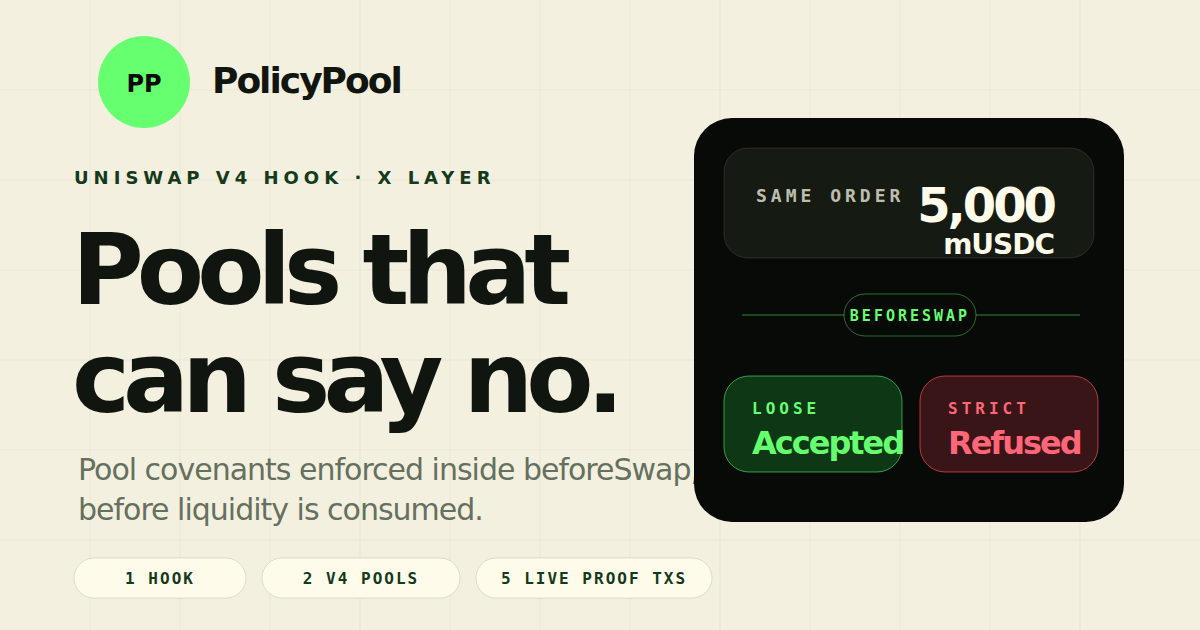
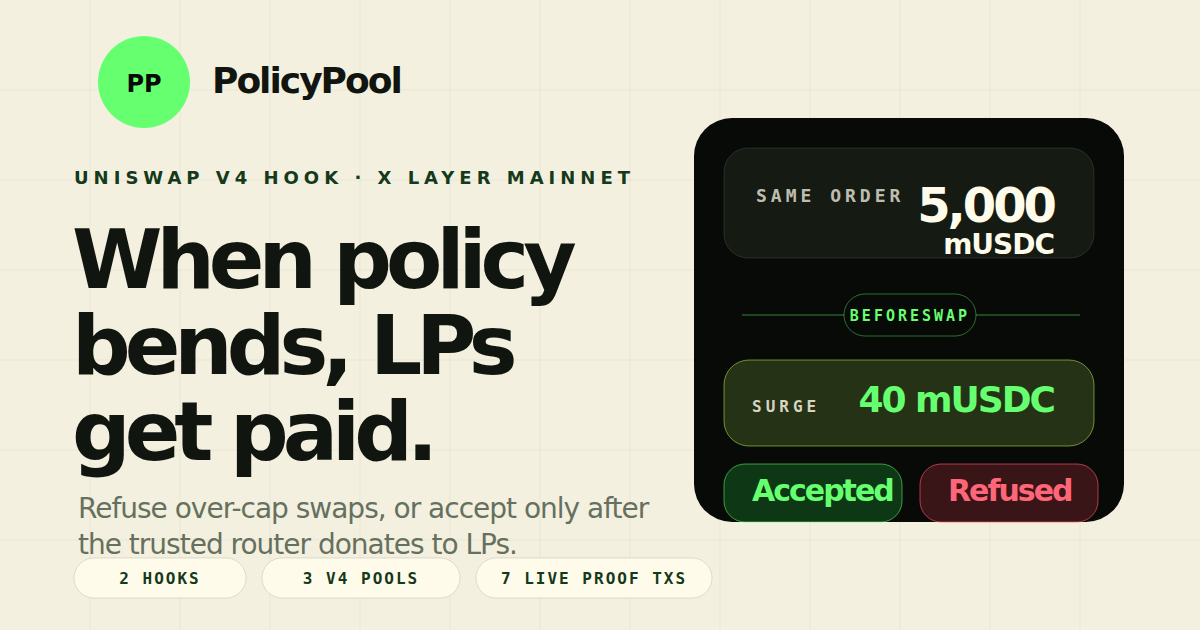
Tighten PolicyPool landing hero

diff --git a/web/styles.css b/web/styles.css
@@ -79,7 +79,7 @@ pre,
   justify-content: space-between;
   gap: 18px;
   margin: 16px auto 0;
-  padding: 10px;
+  padding: 8px;
   border: 1px solid var(--line);
   border-radius: 999px;
   background: rgba(255, 251, 237, 0.82);
@@ -102,9 +102,9 @@ pre,
 }
 
 .brand-mark {
-  width: 48px;
-  height: 48px;
-  border-radius: 17px;
+  width: 44px;
+  height: 44px;
+  border-radius: 15px;
   display: block;
   box-shadow: inset 0 0 0 1px rgba(7, 10, 7, 0.08);
 }
@@ -134,10 +134,10 @@ pre,
   align-items: center;
   justify-content: space-between;
   gap: 12px;
-  min-height: 58px;
+  min-height: 48px;
   border: 1px solid rgba(16, 22, 15, 0.12);
   border-radius: 999px;
-  padding: 12px 16px;
+  padding: 10px 14px;
   background: rgba(255, 251, 237, 0.72);
   box-shadow: 0 12px 40px rgba(16, 22, 15, 0.055);
 }
@@ -170,7 +170,7 @@ pre,
 }
 
 main {
-  padding: 22px 0 84px;
+  padding: 8px 0 84px;
 }
 
 .hero {
@@ -178,8 +178,8 @@ main {
   display: grid;
   grid-template-columns: minmax(0, 0.85fr) minmax(520px, 1fr);
   gap: clamp(30px, 5vw, 86px);
-  align-items: center;
-  padding: clamp(54px, 6vh, 74px) 0 clamp(60px, 8vh, 92px);
+  align-items: start;
+  padding: clamp(30px, 4vh, 42px) 0 clamp(46px, 6vh, 70px);
 }
 
 .eyebrow {
@@ -198,10 +198,10 @@ p {
 }
 
 h1 {
-  margin: 14px 0 20px;
-  max-width: 900px;
-  font-size: clamp(64px, 6.7vw, 118px);
-  line-height: 0.88;
+  margin: 12px 0 18px;
+  max-width: 820px;
+  font-size: clamp(60px, 5.8vw, 98px);
+  line-height: 0.9;
   letter-spacing: -0.085em;
 }
 
@@ -214,10 +214,10 @@ h2 {
 }
 
 .lede {
-  max-width: 720px;
+  max-width: 680px;
   margin: 0;
   color: var(--muted);
-  font-size: clamp(21px, 2vw, 29px);
+  font-size: clamp(20px, 1.7vw, 25px);
   line-height: 1.32;
   letter-spacing: -0.035em;
 }
@@ -258,7 +258,7 @@ h2 {
   display: flex;
   flex-wrap: wrap;
   gap: 10px;
-  margin-top: 30px;
+  margin-top: 24px;
 }
 
 .hero-metrics span {
@@ -276,8 +276,8 @@ h2 {
 .terminal-card {
   position: relative;
   display: grid;
-  gap: 18px;
-  padding: clamp(22px, 3vw, 34px);
+  gap: 14px;
+  padding: clamp(18px, 2.5vw, 28px);
   overflow: hidden;
   border: 1px solid rgba(244, 240, 223, 0.12);
   border-radius: 34px;
@@ -342,7 +342,7 @@ h2 {
   align-items: end;
   border: 1px solid rgba(255, 251, 237, 0.12);
   border-radius: 28px;
-  padding: 24px;
+  padding: 20px;
   background: rgba(255, 251, 237, 0.055);
 }
 
@@ -363,7 +363,7 @@ h2 {
 .order-ticket strong {
   grid-row: span 2;
   text-align: right;
-  font-size: clamp(48px, 5.5vw, 78px);
+  font-size: clamp(44px, 4.8vw, 68px);
   line-height: 0.88;
   letter-spacing: -0.075em;
 }
@@ -378,7 +378,7 @@ h2 {
   z-index: 1;
   display: grid;
   place-items: center;
-  min-height: 72px;
+  min-height: 54px;
 }
 
 .gate-line {
@@ -410,7 +410,7 @@ h2 {
   align-items: center;
   border: 1px solid rgba(219, 255, 91, 0.24);
   border-radius: 24px;
-  padding: 18px 20px;
+  padding: 15px 18px;
   color: #f6ffe9;
   background:
     radial-gradient(circle at 86% 18%, rgba(219, 255, 91, 0.2), transparent 10rem),
@@ -419,7 +419,7 @@ h2 {
 
 .surge-control strong {
   color: var(--green);
-  font-size: clamp(28px, 2.8vw, 42px);
+  font-size: clamp(26px, 2.4vw, 36px);
   line-height: 0.9;
   letter-spacing: -0.07em;
 }
@@ -464,16 +464,16 @@ h2 {
 .verdict {
   display: grid;
   gap: 10px;
-  min-height: 184px;
+  min-height: 142px;
   border: 1px solid rgba(255, 251, 237, 0.1);
   border-radius: 28px;
-  padding: 22px;
+  padding: 18px;
   background: rgba(255, 251, 237, 0.055);
 }
 
 .verdict strong {
   align-self: end;
-  font-size: clamp(42px, 4.2vw, 66px);
+  font-size: clamp(38px, 3.6vw, 56px);
   line-height: 0.88;
   letter-spacing: -0.08em;
 }
@@ -496,6 +496,7 @@ h2 {
 .reviewer-checks,
 .market-path,
 .deployment {
+  scroll-margin-top: 104px;
   margin-top: 26px;
   border: 1px solid var(--line);
   border-radius: 34px;

diff --git a/web/index.html b/web/index.html
@@ -7,7 +7,7 @@
       name="description"
       content="PolicyPool is a Uniswap v4 Hook on X Layer where pools enforce swap covenants, and trusted policy overrides pay LPs through donate + swap."
     />
-    <meta property="og:title" content="PolicyPool · Policy overrides pay LPs" />
+    <meta property="og:title" content="PolicyPool · When policy bends, LPs get paid" />
     <meta
       property="og:description"
       content="A Uniswap v4 Hook where pool covenants refuse oversized swaps, or accept them only after a trusted router donates to LPs."
@@ -19,7 +19,7 @@
     <meta property="og:image:width" content="1200" />
     <meta property="og:image:height" content="630" />
     <meta name="twitter:card" content="summary_large_image" />
-    <meta name="twitter:title" content="PolicyPool · Pools say no, or get paid" />
+    <meta name="twitter:title" content="PolicyPool · LP-paid policy overrides" />
     <meta
       name="twitter:description"
       content="A Uniswap v4 Hook on X Layer where policy overrides pay LPs via donate + swap in one transaction."
@@ -84,10 +84,10 @@
         <section class="hero" aria-label="PolicyPool overview">
           <div class="hero-copy">
             <p class="eyebrow">Uniswap v4 Hook · X Layer mainnet</p>
-            <h1>Pools that say no, or get paid to say yes.</h1>
+            <h1>When policy bends, LPs get paid.</h1>
             <p class="lede">
-              PolicyPool gives each v4 pool its own swap-size and daily-volume covenant. Strict pools refuse oversized
-              flow; Surge lets a trusted router pay LPs before the pool accepts.
+              A Uniswap v4 Hook that refuses over-cap swaps unless a trusted router donates to LPs in the same
+              <code>PoolManager</code> unlock.
             </p>
             <div class="actions">
               <a class="primary" href="#proof">Inspect live proof</a>
@@ -396,5 +396,12 @@ emit SwapAccepted(poolId, trader, amountIn)</code></pre>
         </footer>
       </main>
     </div>
+    <script>
+      window.addEventListener("load", () => {
+        if (!window.location.hash) return;
+        const target = document.querySelector(window.location.hash);
+        if (target) target.scrollIntoView({ block: "start" });
+      });
+    </script>
   </body>
 </html>